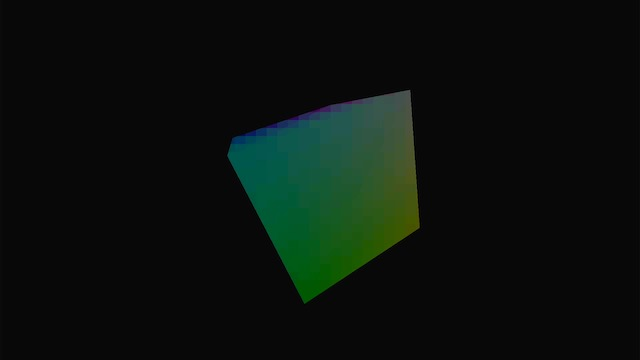
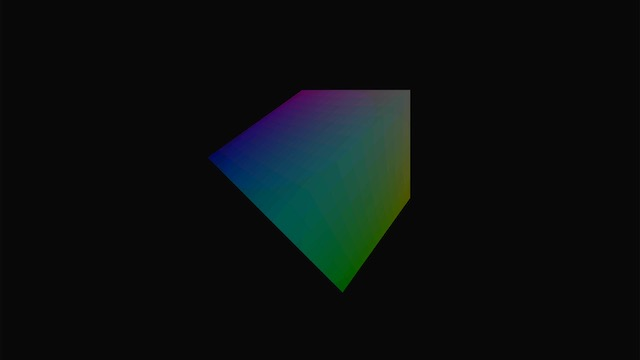
Fixed a perspective correction bug introduced in the last commit.

Changed region(s): [[0.3125, 0.2444, 0.625, 0.8556], [0.5625, 0.3361, 0.6562, 0.7333]]

diff --git a/src/video/fb.rs b/src/video/fb.rs
@@ -476,9 +476,9 @@ impl<'a> Tile<'a>
                               is_plane }
                 } else {
                     // Compute the perspective-correct barycentric coordinates.
-                    let w0 = bary0.mul_lane::<3>(tri.0.proj);
-                    let w1 = bary1.mul_lane::<3>(tri.1.proj);
-                    let w2 = bary2.mul_lane::<3>(tri.2.proj);
+                    let w0 = hbary0.mul_lane::<3>(tri.0.proj);
+                    let w1 = hbary1.mul_lane::<3>(tri.1.proj);
+                    let w2 = hbary2.mul_lane::<3>(tri.2.proj);
                     let itotal = (w0 + w1 + w2).fast_recip();
                     Context { bary0: w0 * itotal,
                               bary1: w1 * itotal,
